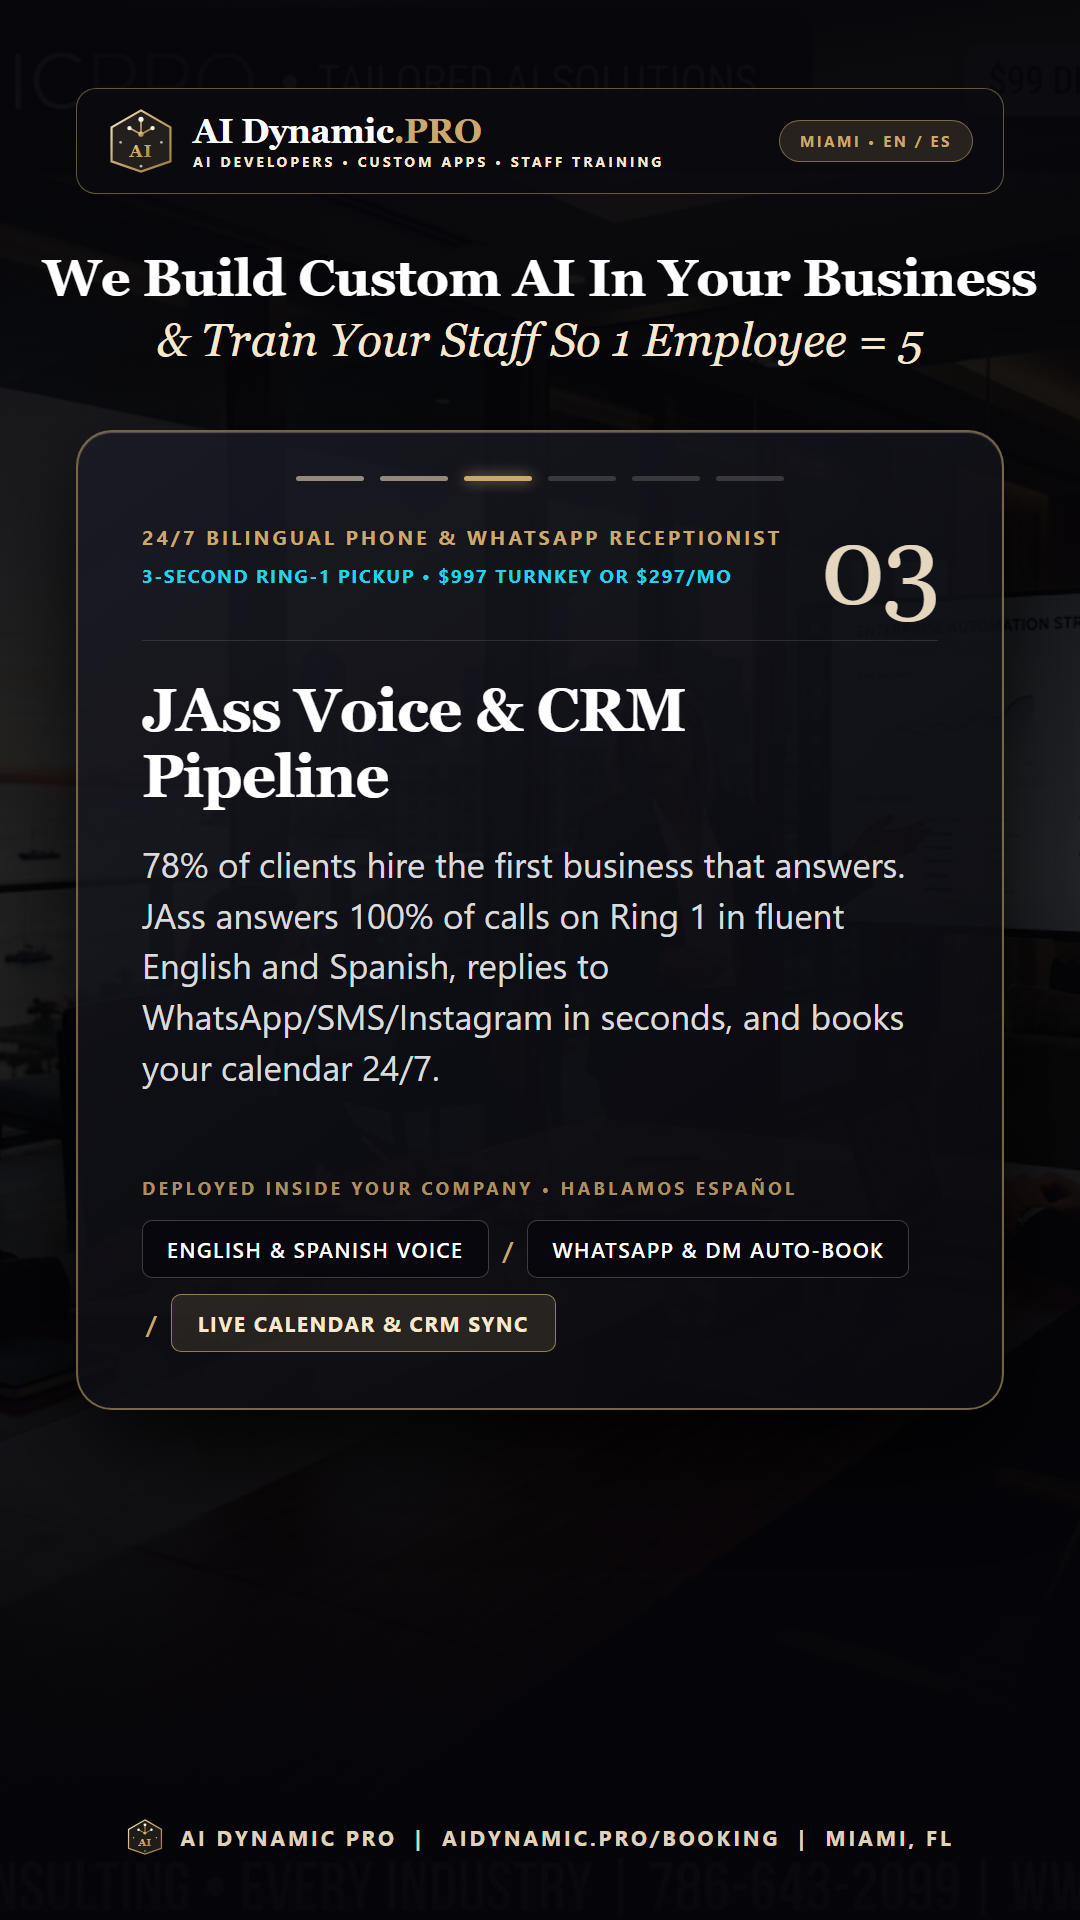
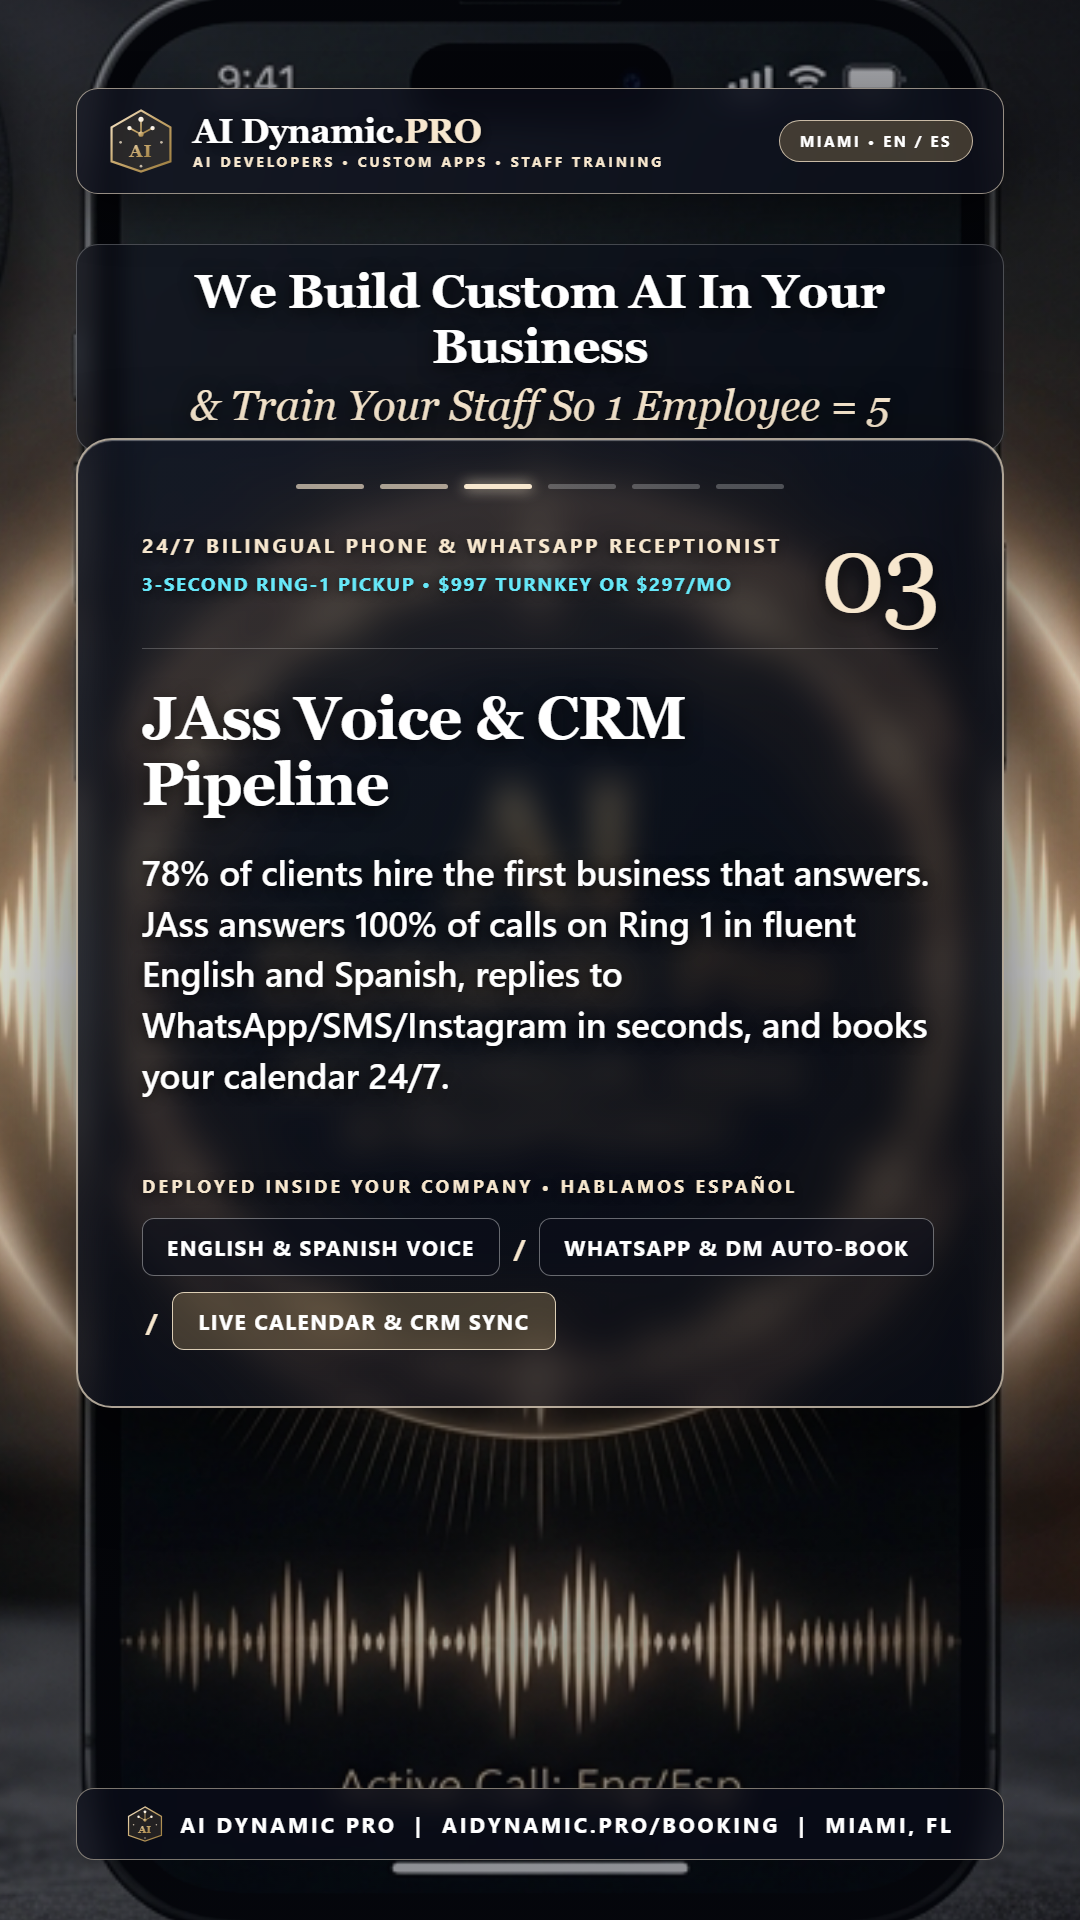
feat(social): restore vivid sector & Miami background photography behind VisionOS frosted-glass cards for Buffer calendar & GBP

diff --git a/api/social-publish.js b/api/social-publish.js
@@ -33,13 +33,13 @@ At AI Dynamic Pro, we do not sell generic software subscriptions. As hands-on AI
 Comment "SCALE" or schedule your $99 Audit / 48-Hour Prototype directly at https://www.aidynamic.pro/booking
 Direct Executive Line: +1 (786) 643-2099`,
   slides: [
-    'https://www.aidynamic.pro/social/vision-deck/vision_slide_01.png',
-    'https://www.aidynamic.pro/social/vision-deck/vision_slide_02.png',
-    'https://www.aidynamic.pro/social/vision-deck/vision_slide_03.png',
-    'https://www.aidynamic.pro/social/vision-deck/vision_slide_04.png',
-    'https://www.aidynamic.pro/social/vision-deck/vision_slide_05.png',
-    'https://www.aidynamic.pro/social/vision-deck/vision_slide_06.png',
-    'https://www.aidynamic.pro/social/vision-deck/vision_slide_07.png',
+    'https://www.aidynamic.pro/social/vision-deck/vision_slide_01.png?v=bright3',
+    'https://www.aidynamic.pro/social/vision-deck/vision_slide_02.png?v=bright3',
+    'https://www.aidynamic.pro/social/vision-deck/vision_slide_03.png?v=bright3',
+    'https://www.aidynamic.pro/social/vision-deck/vision_slide_04.png?v=bright3',
+    'https://www.aidynamic.pro/social/vision-deck/vision_slide_05.png?v=bright3',
+    'https://www.aidynamic.pro/social/vision-deck/vision_slide_06.png?v=bright3',
+    'https://www.aidynamic.pro/social/vision-deck/vision_slide_07.png?v=bright3',
   ],
   reelUrl: 'https://www.aidynamic.pro/social/vision-deck/vision_reel_week1.mp4',
 }
@@ -185,7 +185,7 @@ export default async function handler(req, res) {
           {
             mode: 'shareNow',
             googleType: 'whats_new',
-            img: 'https://www.aidynamic.pro/social/gbp-logos/gbp_official_logo_square.png?v=logo2',
+            img: 'https://www.aidynamic.pro/social/gbp-logos/gbp_official_logo_square.png?v=bright3',
             btn: 'book',
             link: 'https://www.aidynamic.pro/booking?utm_source=google_business&utm_medium=gbp_official_logo',
             txt: `AI DYNAMIC PRO — MIAMI & SOUTH FLORIDA OFFICIAL AI DEVELOPERS, CUSTOM APP CREATORS & CORPORATE STAFF TRAINERS (EN / ES).
@@ -202,7 +202,7 @@ Hablamos Español: Automatización con IA, aplicaciones a medida y capacitación
           {
             mode: 'shareNow',
             googleType: 'whats_new',
-            img: 'https://www.aidynamic.pro/social/gbp-logos/gbp_official_cover_1920x1080.png?v=logo2',
+            img: 'https://www.aidynamic.pro/social/gbp-logos/gbp_official_cover_1920x1080.png?v=bright3',
             btn: 'book',
             link: 'https://www.aidynamic.pro/booking?utm_source=google_business&utm_medium=gbp_official_cover',
             txt: `WE COME INTO YOUR BUSINESS, BUILD CUSTOM AI IN 48 HOURS & TRAIN YOUR STAFF — Save $2,500+/Mo in Payroll & Time or You Pay $0.
@@ -223,7 +223,7 @@ Click Book Below to claim your $99 Audit + Free 48-Hr Custom AI Prototype.`,
             offerTerms: 'Guaranteed to uncover at least $2,500/month ($30,000/yr) in payroll and time savings for your business or we refund your $99 immediately. Includes a working 48-hour AI prototype built for your company.',
             startDate: '2026-11-09T12:00:00Z',
             endDate: '2026-12-31T23:59:00Z',
-            img: 'https://www.aidynamic.pro/social/vision-deck/vision_slide_06.png?v=logo2',
+            img: 'https://www.aidynamic.pro/social/vision-deck/vision_slide_06.png?v=bright3',
             btn: 'book',
             link: 'https://www.aidynamic.pro/booking?utm_source=google_business&utm_medium=gbp_offer_scale99',
             txt: `FOR MIAMI & SOUTH FLORIDA CEOS & BUSINESS OWNERS: Stop overpaying for slow manual work and missed calls.
@@ -240,7 +240,7 @@ EN ESPAÑOL: Vamos a tu empresa en Miami y el Sur de la Florida, creamos tu prot
           {
             mode: 'shareNow',
             googleType: 'whats_new',
-            img: 'https://www.aidynamic.pro/social/vision-deck/vision_slide_03.png?v=logo2',
+            img: 'https://www.aidynamic.pro/social/vision-deck/vision_slide_03.png?v=bright3',
             btn: 'book',
             link: 'https://www.aidynamic.pro/booking?utm_source=google_business&utm_medium=gbp_ceo_vision',
             txt: `WHY SOUTH FLORIDA BUSINESS OWNERS CHOOSE AI DYNAMIC PRO — We Don't Just Sell Software. We Build Your Vision & Train Your Team.
@@ -258,7 +258,7 @@ Make the decision today. Click Book Below to claim your $99 Audit + Free 48-Hour
           {
             mode: 'shareNow',
             googleType: 'whats_new',
-            img: 'https://www.aidynamic.pro/social/vision-deck/vision_slide_01.png?v=logo2',
+            img: 'https://www.aidynamic.pro/social/vision-deck/vision_slide_01.png?v=bright3',
             btn: 'learn_more',
             link: 'https://www.aidynamic.pro/projects?utm_source=google_business&utm_medium=gbp_medical_dental',
             txt: `FOR MEDICAL CLINICS, DENTAL PRACTICES & MEDSPAS IN MIAMI — Cut Front-Desk & Billing Overhead by 45%.
@@ -276,7 +276,7 @@ EN ESPAÑOL: Automatización con IA y entrenamiento de personal para clínicas m
           {
             mode: 'shareNow',
             googleType: 'whats_new',
-            img: 'https://www.aidynamic.pro/social/vision-deck/vision_slide_04.png?v=logo2',
+            img: 'https://www.aidynamic.pro/social/vision-deck/vision_slide_04.png?v=bright3',
             btn: 'book',
             link: 'https://www.aidynamic.pro/booking?utm_source=google_business&utm_medium=gbp_legal_realestate',
             txt: `FOR LAW FIRMS, REAL ESTATE BROKERS & PROPERTY MANAGERS — Close More Retainers & Deals in Under 3 Minutes.
@@ -294,7 +294,7 @@ Click Book Below to schedule your $99 60-Min Department Efficiency Audit.`,
           {
             mode: 'shareNow',
             googleType: 'whats_new',
-            img: 'https://www.aidynamic.pro/social/vision-deck/vision_slide_02.png?v=logo2',
+            img: 'https://www.aidynamic.pro/social/vision-deck/vision_slide_02.png?v=bright3',
             btn: 'learn_more',
             link: 'https://www.aidynamic.pro/projects?utm_source=google_business&utm_medium=gbp_contractors_retail',
             txt: `FOR CONTRACTORS, HOME SERVICES, LOGISTICS & LUXURY RETAIL — Custom AI Apps That Turn Photos & Calls Into Instant Quotes.
@@ -312,7 +312,7 @@ Click Learn More to see our 22 live systems or book your $99 Audit + Free 48-Hr 
           {
             mode: 'shareNow',
             googleType: 'whats_new',
-            img: 'https://www.aidynamic.pro/social/vision-deck/vision_slide_05.png?v=logo2',
+            img: 'https://www.aidynamic.pro/social/vision-deck/vision_slide_05.png?v=bright3',
             btn: 'learn_more',
             link: 'https://www.aidynamic.pro/projects?utm_source=google_business&utm_medium=gbp_agentic_web',
             txt: `NEED A NEW WEBSITE OR CUSTOM APP IN 5 TO 10 DAYS? We Build Self-Selling AI Websites That Rank on Google & ChatGPT.
@@ -330,7 +330,7 @@ Click Learn More or book your $99 Audit to see a live 48-hour prototype for your
           {
             mode: 'shareNow',
             googleType: 'whats_new',
-            img: 'https://www.aidynamic.pro/social/vision-deck/vision_slide_07.png?v=logo2',
+            img: 'https://www.aidynamic.pro/social/vision-deck/vision_slide_07.png?v=bright3',
             btn: 'signup',
             link: 'https://www.aidynamic.pro/booking?utm_source=google_business&utm_medium=gbp_staff_bootcamp',
             txt: `ON-SITE CORPORATE AI STAFF TRAINING BOOTCAMP ($497) — Turn 1 Existing Employee Into the Output of 5.
